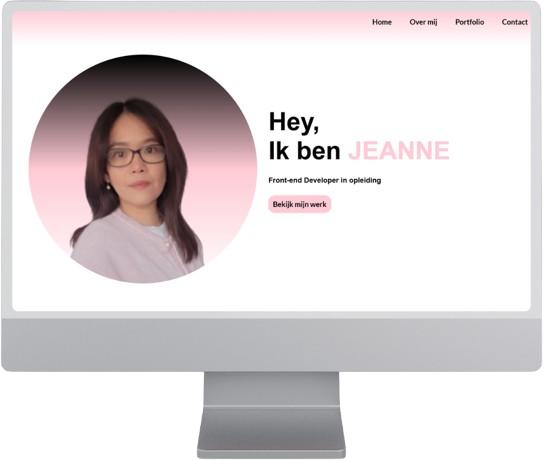
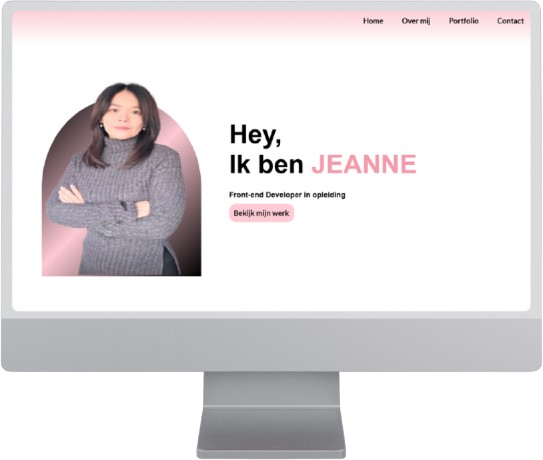
updated

Changed region(s): [[0.0295, 0.0913, 0.825, 0.6391], [0.6483, 0.0304, 0.884, 0.0609], [0.9134, 0.0304, 0.9724, 0.0609]]

diff --git a/index.html b/index.html
@@ -41,13 +41,18 @@
         <div class="home">
             
             <div class="foto">
-                <img src="afb/jeannew.png" alt="jeanne">
+                <picture>
+                    <source media="(max-width:768px)" srcset="afb/jeannew.png">
+                    <source media="(min-width:769px)" srcset="afb/jeannew-4.png">
+                    <img src="afb/jeannew-4.png" alt="jeanne">
+                </picture>
+                
             </div>
 
             <div class="welkom">
            
                 <h1>Hey,</h1>
-                <h1>Ik ben <span class="mijn_naam">JEANNE</span></h1>
+                <h1>Ik ben <span class="mijn_naam"> JEANNE</span></h1>
                 
                 <h5 class="fade_in">Front-end Developer in opleiding</h5>                
                 
@@ -146,19 +151,6 @@
                         </svg>
                     </div>
 
-                    <div class="skill">
-                        <svg xmlns="http://www.w3.org/2000/svg" viewBox="0 0 448 512">
-                        <!--!Font Awesome Free v7.1.0 by @fontawesome - https://fontawesome.com License - https://fontawesome.com/license/free Copyright 2025 Fonticons, Inc.-->
-                        <path d="M224.5 508c-6.7 0-13.5-1.8-19.4-5.2l-61.7-36.5c-9.2-5.2-4.7-7-1.7-8 12.3-4.3 14.8-5.2 27.9-12.7 1.4-.8 3.2-.5 4.6 .4l47.4 28.1c1.7 1 4.1 1 5.7 0L412 367.5c1.7-1 2.8-3 2.8-5l0-213.2c0-2.1-1.1-4-2.9-5.1L227.3 37.7c-1.7-1-4-1-5.7 0L37.1 144.3c-1.8 1-2.9 3-2.9 5.1l0 213.1c0 2 1.1 4 2.9 4.9l50.6 29.2c27.5 13.7 44.3-2.4 44.3-18.7l0-210.4c0-3 2.4-5.3 5.4-5.3l23.4 0c2.9 0 5.4 2.3 5.4 5.3l0 210.5c0 36.6-20 57.6-54.7 57.6-10.7 0-19.1 0-42.5-11.6L20.6 396.1c-12-6.9-19.4-19.8-19.4-33.7l0-213.1c0-13.8 7.4-26.8 19.4-33.7L205.1 9c11.7-6.6 27.2-6.6 38.8 0L428.6 115.7c12 6.9 19.4 19.8 19.4 33.7l0 213.1c0 13.8-7.4 26.7-19.4 33.7L243.9 502.8c-5.9 3.4-12.6 5.2-19.4 5.2zM373.6 297.9c0-39.9-27-50.5-83.7-58-57.4-7.6-63.2-11.5-63.2-24.9 0-11.1 4.9-25.9 47.4-25.9 37.9 0 51.9 8.2 57.7 33.8 .5 2.4 2.7 4.2 5.2 4.2l24 0c1.5 0 2.9-.6 3.9-1.7s1.5-2.6 1.4-4.1c-3.7-44.1-33-64.6-92.2-64.6-52.7 0-84.1 22.2-84.1 59.5 0 40.4 31.3 51.6 81.8 56.6 60.5 5.9 65.2 14.8 65.2 26.7 0 20.6-16.6 29.4-55.5 29.4-48.9 0-59.6-12.3-63.2-36.6-.4-2.6-2.6-4.5-5.3-4.5l-23.9 0c-3 0-5.3 2.4-5.3 5.3 0 31.1 16.9 68.2 97.8 68.2 58.4-.1 92-23.2 92-63.4z"/>
-                        </svg>
-                    </div>
-
-                    <div class="skill">
-                        <svg xmlns="http://www.w3.org/2000/svg" viewBox="0 0 512 512">
-                        <!--!Font Awesome Free v7.1.0 by @fontawesome - https://fontawesome.com License - https://fontawesome.com/license/free Copyright 2025 Fonticons, Inc.-->
-                        <path d="M418.2 177.2c-5.4-1.8-10.8-3.5-16.2-5.1 .9-3.7 1.7-7.4 2.5-11.1 12.3-59.6 4.2-107.5-23.1-123.3-26.3-15.1-69.2 .6-112.6 38.4-4.3 3.7-8.5 7.6-12.5 11.5-2.7-2.6-5.5-5.2-8.3-7.7-45.5-40.4-91.1-57.4-118.4-41.5-26.2 15.2-34 60.3-23 116.7 1.1 5.6 2.3 11.1 3.7 16.7-6.4 1.8-12.7 3.8-18.6 5.9-53.4 18.5-91.7 47.7-91.7 77.9 0 31.2 40.8 62.5 96.3 81.5 4.5 1.5 9 3 13.6 4.3-1.5 6-2.8 11.9-4 18-10.5 55.5-2.3 99.5 23.9 114.6 27 15.6 72.4-.4 116.6-39.1 3.5-3.1 7-6.3 10.5-9.7 4.4 4.3 9 8.4 13.6 12.4 42.8 36.8 85.1 51.7 111.2 36.6 27-15.6 35.8-62.9 24.4-120.5-.9-4.4-1.9-8.9-3-13.5 3.2-.9 6.3-1.9 9.4-2.9 57.7-19.1 99.5-50 99.5-81.7 0-30.3-39.4-59.7-93.8-78.4zM282.9 92.3c37.2-32.4 71.9-45.1 87.7-36 16.9 9.7 23.4 48.9 12.8 100.4-.7 3.4-1.4 6.7-2.3 10-22.2-5-44.7-8.6-67.3-10.6-13-18.6-27.2-36.4-42.6-53.1 3.9-3.7 7.7-7.2 11.7-10.7zM167.2 307.5c5.1 8.7 10.3 17.4 15.8 25.9-15.6-1.7-31.1-4.2-46.4-7.5 4.4-14.4 9.9-29.3 16.3-44.5 4.6 8.8 9.3 17.5 14.3 26.1zM136.9 187.2c14.4-3.2 29.7-5.8 45.6-7.8-5.3 8.3-10.5 16.8-15.4 25.4-4.9 8.5-9.7 17.2-14.2 26-6.3-14.9-11.6-29.5-16-43.6zm27.4 68.9c6.6-13.8 13.8-27.3 21.4-40.6s15.8-26.2 24.4-38.9c15-1.1 30.3-1.7 45.9-1.7s31 .6 45.9 1.7c8.5 12.6 16.6 25.5 24.3 38.7s14.9 26.7 21.7 40.4c-6.7 13.8-13.9 27.4-21.6 40.8-7.6 13.3-15.7 26.2-24.2 39-14.9 1.1-30.4 1.6-46.1 1.6s-30.9-.5-45.6-1.4c-8.7-12.7-16.9-25.7-24.6-39s-14.8-26.8-21.5-40.6zm180.6 51.2c5.1-8.8 9.9-17.7 14.6-26.7 6.4 14.5 12 29.2 16.9 44.3-15.5 3.5-31.2 6.2-47 8 5.4-8.4 10.5-17 15.5-25.6zm14.4-76.5c-4.7-8.8-9.5-17.6-14.5-26.2-4.9-8.5-10-16.9-15.3-25.2 16.1 2 31.5 4.7 45.9 8-4.6 14.8-10 29.2-16.1 43.4zM256.2 118.3c10.5 11.4 20.4 23.4 29.6 35.8-19.8-.9-39.7-.9-59.5 0 9.8-12.9 19.9-24.9 29.9-35.8zM140.2 57c16.8-9.8 54.1 4.2 93.4 39 2.5 2.2 5 4.6 7.6 7-15.5 16.7-29.8 34.5-42.9 53.1-22.6 2-45 5.5-67.2 10.4-1.3-5.1-2.4-10.3-3.5-15.5-9.4-48.4-3.2-84.9 12.6-94zM115.7 320.6c-4.2-1.2-8.3-2.5-12.4-3.9-21.3-6.7-45.5-17.3-63-31.2-10.1-7-16.9-17.8-18.8-29.9 0-18.3 31.6-41.7 77.2-57.6 5.7-2 11.5-3.8 17.3-5.5 6.8 21.7 15 43 24.5 63.6-9.6 20.9-17.9 42.5-24.8 64.5zm116.6 98c-16.5 15.1-35.6 27.1-56.4 35.3-11.1 5.3-23.9 5.8-35.3 1.3-15.9-9.2-22.5-44.5-13.5-92 1.1-5.6 2.3-11.2 3.7-16.7 22.4 4.8 45 8.1 67.9 9.8 13.2 18.7 27.7 36.6 43.2 53.4-3.2 3.1-6.4 6.1-9.6 8.9zm24.5-24.3c-10.2-11-20.4-23.2-30.3-36.3 9.6 .4 19.5 .6 29.5 .6 10.3 0 20.4-.2 30.4-.7-9.2 12.7-19.1 24.8-29.6 36.4zm130.7 30c-.9 12.2-6.9 23.6-16.5 31.3-15.9 9.2-49.8-2.8-86.4-34.2-4.2-3.6-8.4-7.5-12.7-11.5 15.3-16.9 29.4-34.8 42.2-53.6 22.9-1.9 45.7-5.4 68.2-10.5 1 4.1 1.9 8.2 2.7 12.2 4.9 21.6 5.7 44.1 2.5 66.3zm18.2-107.5c-2.8 .9-5.6 1.8-8.5 2.6-7-21.8-15.6-43.1-25.5-63.8 9.6-20.4 17.7-41.4 24.5-62.9 5.2 1.5 10.2 3.1 15 4.7 46.6 16 79.3 39.8 79.3 58 0 19.6-34.9 44.9-84.8 61.4zM256 301.8a45.8 45.8 0 1 0 0-91.6 45.8 45.8 0 1 0 0 91.6z"/>
-                        </svg>
-                    </div>
                     
                                 
                 </div>   

diff --git a/css/index.css b/css/index.css
@@ -94,8 +94,8 @@ a:hover{
     flex-direction: column;
     justify-content: center;
     align-items: center;
-    min-height: 100dvh;   
-     
+    height: 100dvh;   
+    padding: 20px; 
 }
 
 .container {
@@ -110,7 +110,7 @@ a:hover{
 }
 
 section{
-    scroll-margin-top: 70px;
+    scroll-margin-top: 80px;
     min-height: 100vh;
     min-height: 100dvh;
 }
@@ -125,12 +125,14 @@ section{
     flex-direction: row;   
     align-items: center;  
     justify-content: center;  
-    padding: 10px;
-    gap: 45px;    
+    
+    overflow: hidden;
+    gap: 10px;    
+    margin-left: 30px;
     height: 100%;
     width: 80%;
     background-color: transparent;
-    
+    transition: all 2s ease;
 }
 
 .mijn_naam{
@@ -146,50 +148,67 @@ section{
     justify-content: center;
     align-items: flex-start;  
     width: 35vw;
-    max-height: 100%;
+    height: 100%;
     padding-right: 0;
+    opacity: 0;
     
+    animation: display 1s ease 3.5s forwards;
 }
 
 
 .welkom h1{
     font-size: 3.5rem;
     font-family: Arial;
-    margin: 0;
+    margin: 0 0 0 10px;
 }
 
 .welkom h5{
     
     font-size: 1rem;
     font-family: arial;
-    margin: 1.5rem 0;
+    margin: 1.5rem 0 10px 10px;
 }
 
 .foto{
     display: flex;   
     justify-content: center;   
     align-items: flex-end;  
-    width: 35vw;         
+    width: 35%;  
+    height: 30vw;       
     aspect-ratio: 1/1;    
-    margin-top: 40px;
+    margin-top: 70px;
     background: linear-gradient(135deg, black, #ffcad4, black);
     border-radius: 50% 50% 0 0;
-    border: solid 1px black;
+    transform: translateX(70%);
+    animation: schuiven 2s ease 2s forwards;
 }
 .foto img{
     
-    width: 40vw;   
+    width: auto;  
+    height: 45vw; 
     aspect-ratio: 1/1;
-    background-color: transparent;
+    background-color: transparent;      
     
-    
-    
+}
+
+@keyframes display {
+    to {
+        opacity: 1;
+        
+    }
+}
+
+@keyframes schuiven{
+    to {
+        transform: translateX(-40px);
+    }
 }
 .btnPortfolio{
     background-color: #ffcad4 ;
     color: black;
     font-weight: bold;
     padding: 10px;
+    margin-left: 10px;
     width: 120px;
     text-decoration: none;
     font-size: 1rem;
@@ -198,6 +217,7 @@ section{
     align-items: center;
 
 }
+
 .fade_in{
     opacity: 0;
     animation: fadeIn 4s forwards;
@@ -217,6 +237,7 @@ section{
 }
 
 .over_mij {
+   
     display: flex;
     flex-direction: column;
     justify-content: flex-start;
@@ -384,7 +405,7 @@ section{
     align-items: center;
     gap: 10px;   
     width: 100%;
-    height: 70%;
+    height: 90%;
     background: linear-gradient(to bottom, transparent, #ffcad4, transparent);
 }
 .contact_titel {
@@ -540,20 +561,29 @@ footer p{
         justify-content: center;
         align-items: center;        
        
-        width: 50vw;
+        width: 60%;
+        height: 50vw;
         aspect-ratio: 1/1;
         background: linear-gradient(to bottom, transparent, #ffcad4, transparent);
         border-radius: 50%;
-        margin-top: 100px;
+        margin-top: 80px;
+        opacity: 0;
+        animation: schuiven 0.5s ease 2s forwards;
     }
     
     .foto img{        
-         
-        width: 50vw;  
+      
+        width: 100%;  
+        height: 50vw;
         aspect-ratio: 1/1;             
         border-radius: 50%;        
     }
-    
+    @keyframes schuiven{
+    to {
+        transform: translateX(-5px);
+        opacity: 1;
+    }
+}
 
     #portfolio {
         scroll-margin-top: 100px ;  
